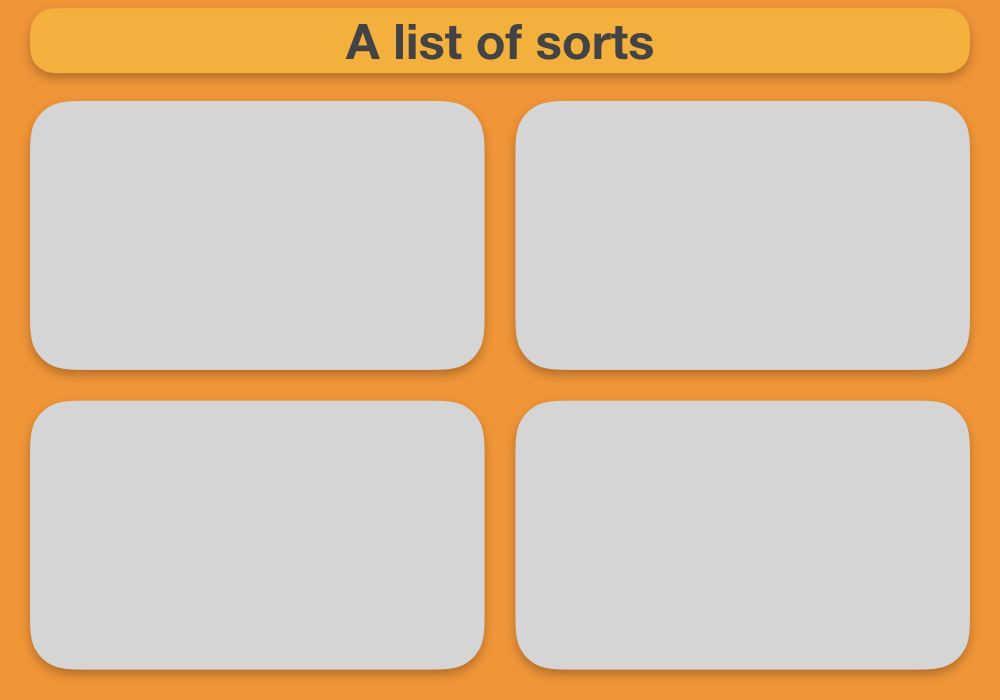
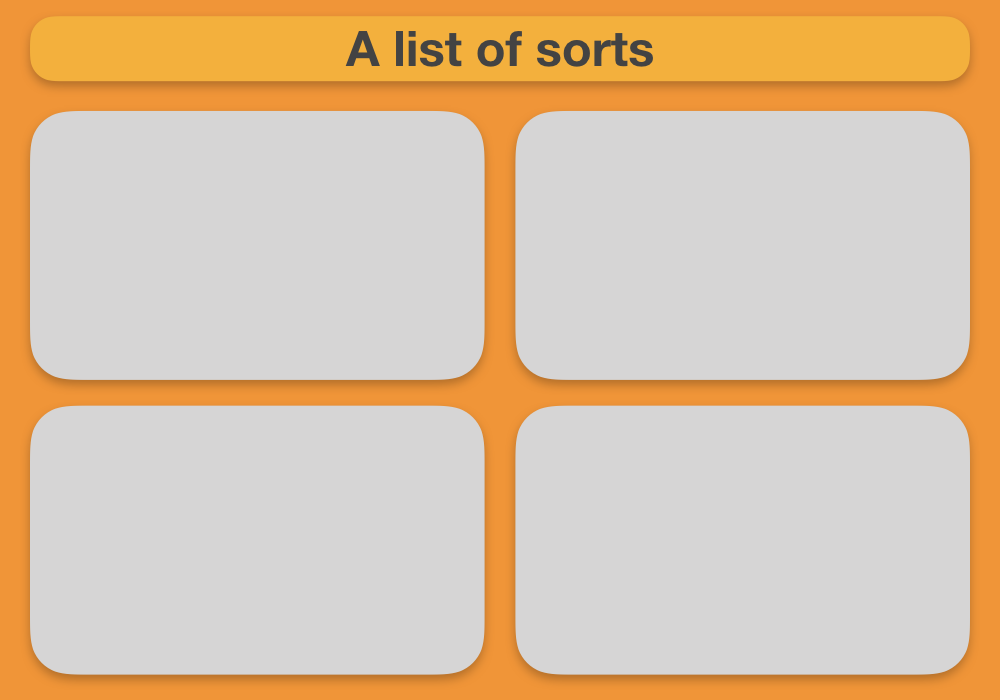
Updated UI and bubble Sort.

diff --git a/pygame/00 main.py b/pygame/00 main.py
@@ -37,7 +37,7 @@ title_colour = pygame.Color(40, 40, 40)
 config_font = pygame.font.SysFont('Helvetica Neue Bold', 50)
 
 # Top title bar
-title_height = 70
+title_height = 80
 spacing = 30
 mainscreen_image = pygame.image.load('mainscreen_image.png')
 
@@ -81,7 +81,8 @@ insertionsortConfig_btn = pygame.image.load('insertionsortConfig_btn.png')
 stepper_btn = pygame.image.load('stepper_btn.png')
 
 # Run button
-run_btn = pygame.image.load('run_btn.png')
+runUnselected_btn = pygame.image.load('runUnselected_btn.png')
+runSelected_btn = pygame.image.load('runSelected_btn.png')
 
 # Sorting config
 runBtn_x, runBtn_y, runBtn_w, runBtn_h = 324, 200, 116, 56
@@ -102,74 +103,98 @@ def showConfig(frame, show_image):
 
     window.blit(stepper_btn,(frame[0]+speedText_x+stepper_x, frame[1]+speedText_y-3))
     window.blit(stepper_btn,(frame[0]+listlengthText_x+stepper_x, frame[1]+listlengthText_y-3))
+
     update_draw()
 
 # Check if cursor in box
 def cursor(frame, sort_image, show_image):
     global speed, listlength
+    
+    mousePos = pygame.mouse.get_pos()
 
-    mouse_pos = pygame.mouse.get_pos()
-    if frame[0]+sortingBoxes_size_w > mouse_pos[0] > frame[0] and frame[1]+sortingBoxes_size_h > mouse_pos[1] > frame[1]:
-        showConfig(frame, show_image)
-
-        # Mouse click in stepper
-        if event.type == pygame.MOUSEBUTTONDOWN: 
-            # Stepper for speed
-            # - 
-            if 0.2 < speed: 
-                if frame[0]+speedText_x+stepper_x+50 > mouse_pos[0] > frame[0]+speedText_x+stepper_x and frame[1]+speedText_y-3+39 > mouse_pos[1] > frame[1]+speedText_y-3:
-                    speed -= 0.1
-                    showConfig(frame, show_image)
-            # + 
-            if speed < 4.9:  
-                if frame[0]+speedText_x+stepper_x+100 > mouse_pos[0] > frame[0]+speedText_x+stepper_x+50 and frame[1]+speedText_y-3+39 > mouse_pos[1] > frame[1]+speedText_y-3:         
-                    speed += 0.1
-                    showConfig(frame, show_image)
-            
-            # Stepper for listlength
-            # -
-            if 1 < listlength:  
-                if frame[0]+listlengthText_x+stepper_x+50 > mouse_pos[0] > frame[0]+listlengthText_x+stepper_x and frame[1]+listlengthText_y-3+39 > mouse_pos[1] > frame[1]+listlengthText_y-3:
-                    listlength -= 1
-                    showConfig(frame, show_image)
-            # +
-            if listlength < 100: 
-                if frame[0]+listlengthText_x+stepper_x+100 > mouse_pos[0] > frame[0]+listlengthText_x+stepper_x+50 and frame[1]+listlengthText_y-3+39 > mouse_pos[1] > frame[1]+listlengthText_y-3:
-                    listlength += 1
-                    showConfig(frame, show_image)
-
-        # Mouse click in box
-        if frame[0]+runBtn_x+runBtn_w > mouse_pos[0] > frame[0]+runBtn_x and frame[1]+runBtn_y+runBtn_h > mouse_pos[1] > frame[1]+runBtn_y:
-            window.blit(run_btn, (frame[0]+runBtn_x, frame[1]+runBtn_y))
-            update_draw()
-            if event.type == pygame.MOUSEBUTTONDOWN: return True
+    # Cursor in frame of the box
+    sortConfig_drawn = False
+    while frame[0]+sortingBoxes_size_w > mousePos[0] > frame[0] and frame[1]+sortingBoxes_size_h > mousePos[1] > frame[1]:
+        # Change to sorConfig_btn
+        if not sortConfig_drawn: 
+            showConfig(frame, show_image)
+            sortConfig_drawn = True
         
-    else:
+        # Mouse click in stepper
+        for event in pygame.event.get():
+            if event.type == pygame.MOUSEBUTTONDOWN: 
+                # Stepper for speed
+                # click "-"
+                if 0.3 < speed: # 0.2 is min number
+                    if frame[0]+speedText_x+stepper_x+50 > mousePos[0] > frame[0]+speedText_x+stepper_x and frame[1]+speedText_y-3+39 > mousePos[1] > frame[1]+speedText_y-3:
+                        speed -= 0.1
+                        showConfig(frame, show_image)
+                # click "+"
+                if speed < 7.9: # 8.0 is max number
+                    if frame[0]+speedText_x+stepper_x+100 > mousePos[0] > frame[0]+speedText_x+stepper_x+50 and frame[1]+speedText_y-3+39 > mousePos[1] > frame[1]+speedText_y-3:         
+                        speed += 0.1
+                        showConfig(frame, show_image)
+                    
+                # Stepper for listlength
+                # click "-"
+                if 1 < listlength: # 0 is min number
+                    if frame[0]+listlengthText_x+stepper_x+50 > mousePos[0] > frame[0]+listlengthText_x+stepper_x and frame[1]+listlengthText_y-3+39 > mousePos[1] > frame[1]+listlengthText_y-3:
+                        listlength -= 1
+                        showConfig(frame, show_image)
+                # click "+"
+                if listlength < 100: # 100 is max number
+                    if frame[0]+listlengthText_x+stepper_x+100 > mousePos[0] > frame[0]+listlengthText_x+stepper_x+50 and frame[1]+listlengthText_y-3+39 > mousePos[1] > frame[1]+listlengthText_y-3:
+                        listlength += 1
+                        showConfig(frame, show_image)
+
+        # Cursor on run_btn
+        runSelected_drawn = False
+        while frame[0]+runBtn_x+runBtn_w > mousePos[0] > frame[0]+runBtn_x and frame[1]+runBtn_y+runBtn_h > mousePos[1] > frame[1]+runBtn_y:
+            # if runSelected_btn not drawn 
+            if not runSelected_drawn:
+                window.blit(runSelected_btn, (frame[0]+runBtn_x, frame[1]+runBtn_y))
+                update_draw()
+                runSelected_drawn = True
+
+            # Cursor click run_btn
+            for event in pygame.event.get():
+                if event.type == pygame.MOUSEBUTTONDOWN: return True # run sort algorithm
+            
+            mousePos = pygame.mouse.get_pos()
+
+        # Cursor move out of run_btn
+        if runSelected_drawn:
+            window.blit(runUnselected_btn, (frame[0]+runBtn_x, frame[1]+runBtn_y))
+            update_draw()
+
+        mousePos = pygame.mouse.get_pos()
+        # buffer()
+    
+    # Cursor is out of the box, change have to sort_btn
+    if sortConfig_drawn: 
         window.blit(sort_image, frame)
         update_draw()
 
+# Main loop
 while True:
-    for event in pygame.event.get():
-        if event.type == pygame.QUIT:
-            pygame.quit()
-            quit()
+    if cursor(bubblesort_frame, bubblesort_btn, bubblesortConfig_btn):
+        bubblesort(speed, listlength)
+        setTitle() # Reset
+        setBoxes()
+    elif cursor(quicksort_frame, quicksort_btn, quicksortConfig_btn):
+        quicksort(speed, listlength)
+        setTitle() # Reset
+        setBoxes()
+    elif cursor(mergesort_frame, mergesort_btn, mergesortConfig_btn):
+        mergesort(speed, listlength)
+        setTitle() # Reset
+        setBoxes()
+    elif cursor(insertionsort_frame, insertionsort_btn, insertionsortConfig_btn): # Algorithm not done
+        # insertionsort()
+        setTitle() # Reset
+        setBoxes()
 
-        if cursor(bubblesort_frame, bubblesort_btn, bubblesortConfig_btn):
-            bubblesort(speed, listlength)
-            setTitle() # Reset
-            setBoxes()
-        elif cursor(quicksort_frame, quicksort_btn, quicksortConfig_btn):
-            quicksort(speed, listlength)
-            setTitle() # Reset
-            setBoxes()
-        elif cursor(mergesort_frame, mergesort_btn, mergesortConfig_btn):
-            mergesort(speed, listlength)
-            setTitle() # Reset
-            setBoxes()
-        elif cursor(insertionsort_frame, insertionsort_btn, insertionsortConfig_btn): # Algorithm not done
-            # insertionsort()
-            setTitle() # Reset
-            setBoxes()
+    buffer()
 
 
 

diff --git a/pygame/bubblesort.py b/pygame/bubblesort.py
@@ -1,19 +1,29 @@
-# Declaring Variables
-heightList = []
-listLength = 10
-numOfSelections = 0
-numOfSwaps = 0
-swap = False
-size = (1000, 700)
+import pygame
+from random import randint
+import time
 
-# coordinate for drawing
-xList, y, w = [], 0, size[0]/listLength
+# Declaring Variables
+window_size = (1000, 700)
+
+listLength = 0
+titleHeight = 128
+maxHeight = 390
+spacing = 75
+
+numOfSwaps = 0
+runTime = 0
+swap = False
+
+heightList = []
+xList, y, w = [], 0, 0
 
 def bubblesort(speed, length):
-    import pygame
-    from random import randint
-
-    global heightList, xList, w, listLength, numOfSelections, numOfSwaps, swap, size
+    global heightList, xList, w, listLength, titleHeight, numOfSwaps, runTime, swap, window_size
+    
+    # Initialization
+    pygame.init()
+    pygame.font.init()
+    window = pygame.display.set_mode((window_size))
 
     # Reset variables
     heightList = []
@@ -24,89 +34,120 @@ def bubblesort(speed, length):
 
     # Change accordance to length and speed input
     listLength = length
-    w = size[0]/listLength
-    
-    # Initializing the window
-    pygame.init()
-    window = pygame.display.set_mode((size))
-    pygame.display.set_caption("Bubble-Sort Visualization")
-    background_colour = pygame.Color(245, 138, 7)
+    w = (window_size[0]-spacing*2)/listLength
+
+    # colours
     white = pygame.Color(255, 255, 255)
     red = pygame.Color(255, 0, 0)
     green = pygame.Color(0, 255, 0)
+    stats_colour = pygame.Color(67, 67, 67)
+
+    # Font set
+    stats_font = pygame.font.SysFont('Helvetica Neue Bold', 50)
 
     # Creating all the random numbers
     for i in range(listLength):
-        heightList.append(randint(10, 400))
-        xList.append(w*i)
+        heightList.append(randint(10, maxHeight))
+        xList.append(spacing + w*i)
 
-    # Displaying bars on the window
-
+    def rect_draw(colour, x, y, w, h):
+        pygame.draw.rect(window, colour, (x, y, w, h), 0)
 
     def draw():
-        global xList, y, heightList
-        window.fill(background_colour)
+        global xList, y, heightList, listLength, numOfSwaps
+        
+        # Top title bar
+        bubblesortAlgo_image = pygame.image.load('bubblesortAlgo_image.png')
+        window.blit(bubblesortAlgo_image,(0, 0))
+
+        # show stats
+        timeStats_text = stats_font.render(str(round(time.time() - runTime, 3)) + " sec", True, stats_colour)
+        swapStats_text = stats_font.render(str(numOfSwaps), True, stats_colour)
+        speedStats_text = stats_font.render(str(round(speed, 1)) + " x", True, stats_colour)
+        listlengthStats_text = stats_font.render(str(int(listLength)), True, stats_colour)
+        window.blit(timeStats_text,(321, 564))
+        window.blit(swapStats_text,(321, 612))
+        window.blit(speedStats_text,(739, 564))
+        window.blit(listlengthStats_text,(739, 612))
+         
+
         for i in range(listLength):
-            pygame.draw.rect(
-                window, white, (xList[i], 400-heightList[i], w, heightList[i]), 0)
+            rect_draw(white, xList[i], maxHeight+titleHeight-heightList[i], w, heightList[i])
 
+    def backBtn_click():
+        backBtn_x, backBtn_y, backBtn_w, backBtn_h = 48, 28, 42, 42
+        mousePos = pygame.mouse.get_pos()
+        
+        # if cusor click in 
+        if event.type == pygame.MOUSEBUTTONDOWN: 
+            if backBtn_x+backBtn_w > mousePos[0] > backBtn_x and backBtn_y+backBtn_h > mousePos[1] > backBtn_y:
+                return True
 
-    def buffer():
-        for event in pygame.event.get():
-            if event.type == pygame.QUIT:
-                pygame.quit()
-
-
-    def update_draw(speed):
+    def update_draw():
+        pygame.display.flip()
         pygame.display.update()
-        pygame.time.Clock().tick(int(5*speed))
+        pygame.time.Clock().tick(10000000000)
 
+    # Start sort
+    runTime = time.time()
+    # Load time cover 
+    timeCover_image = pygame.image.load('timeCover_image.png')
 
     # Algorithm
     for i in range(listLength-1, 0, -1):
         for j in range(i):
-            draw()
-            update_draw(speed)
+            draw() # Draw fundamental bars first
 
             if swap:
-                pygame.draw.rect(
-                    window, green, (xList[j], 400-heightList[j], w, heightList[j]), 0)
+                rect_draw(green, xList[j], maxHeight+titleHeight-heightList[j], w, heightList[j])
                 swap = False
-            else:
-                pygame.draw.rect(
-                    window, red, (xList[j], 400-heightList[j], w, heightList[j]), 0)
-
-            update_draw(speed)
+            else: 
+                rect_draw(red, xList[j], maxHeight+titleHeight-heightList[j], w, heightList[j])
+            
+            update_draw()
 
             if heightList[j] > heightList[j+1]:
                 heightList[j], heightList[j+1] = heightList[j+1], heightList[j]
                 swap = True
 
-                numOfSelections += 1
                 numOfSwaps += 1
 
-            numOfSelections += 1
-
-            buffer()
-
+            for i in range(int(400/speed)):
+                # check if back btn clicked
+                for event in pygame.event.get():
+                    if backBtn_click(): return None # End program
+                    if event.type == pygame.QUIT: pygame.quit()
+    
+                time.sleep(0.001)
+    
     # Sort ended
+    time_end = time.time()
 
     # Print sorted list to console
     print(heightList)
-    print("Selections: {}\nSwaps: {}".format(numOfSelections, numOfSwaps))
+    print("Swaps: {}".format(numOfSwaps))
+    print(time_end - runTime)
 
     # Ending animation
     # green going up
     for i in range(listLength):
-        pygame.draw.rect(
-            window, green, (xList[i], 400-heightList[i], w, heightList[i]), 0)
-        update_draw(speed)
+        rect_draw(green, xList[i], maxHeight+titleHeight-heightList[i], w, heightList[i])
+        update_draw()
+        
+        for event in pygame.event.get():
+            if backBtn_click(): return None # End program
+            if event.type == pygame.QUIT: pygame.quit()
 
-        buffer()
     # green going down
     for i in range(listLength-1, -1, -1):
-        pygame.draw.rect(
-            window, white, (xList[i], 400-heightList[i], w, heightList[i]), 0)
-        update_draw(speed)
+        rect_draw(white, xList[i], maxHeight+titleHeight-heightList[i], w, heightList[i])
+        update_draw()
+        
+        for event in pygame.event.get():
+            if backBtn_click(): return None # End program
+            if event.type == pygame.QUIT: pygame.quit()
 
-        buffer()
+    while True:
+        for event in pygame.event.get():
+            if backBtn_click(): return None # End program
+            if event.type == pygame.QUIT: pygame.quit()
